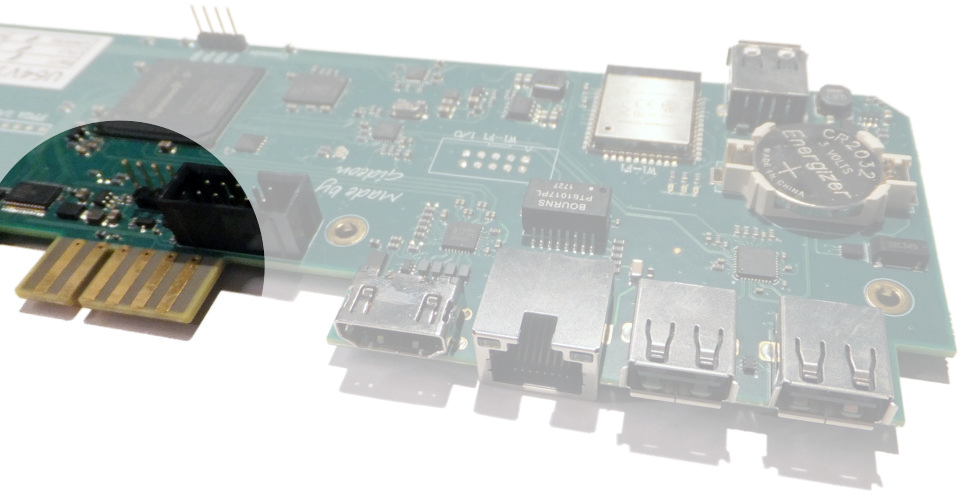
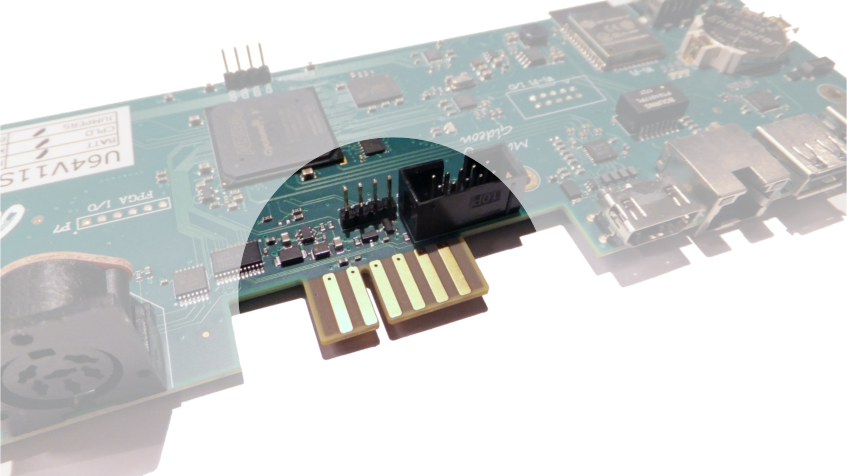
picture updates

diff --git a/hardware/av_plug.rst b/hardware/av_plug.rst
@@ -1,6 +1,10 @@
 Audio/Video Connector
 =====================
 
+.. figure:: ../media/hardware/hardware_av_plug_01.png
+   :alt: 8-pin DIN plug location
+
+
 .. figure:: ../media/din-8.png
    :alt: 8-pin DIN plug drawing
    
